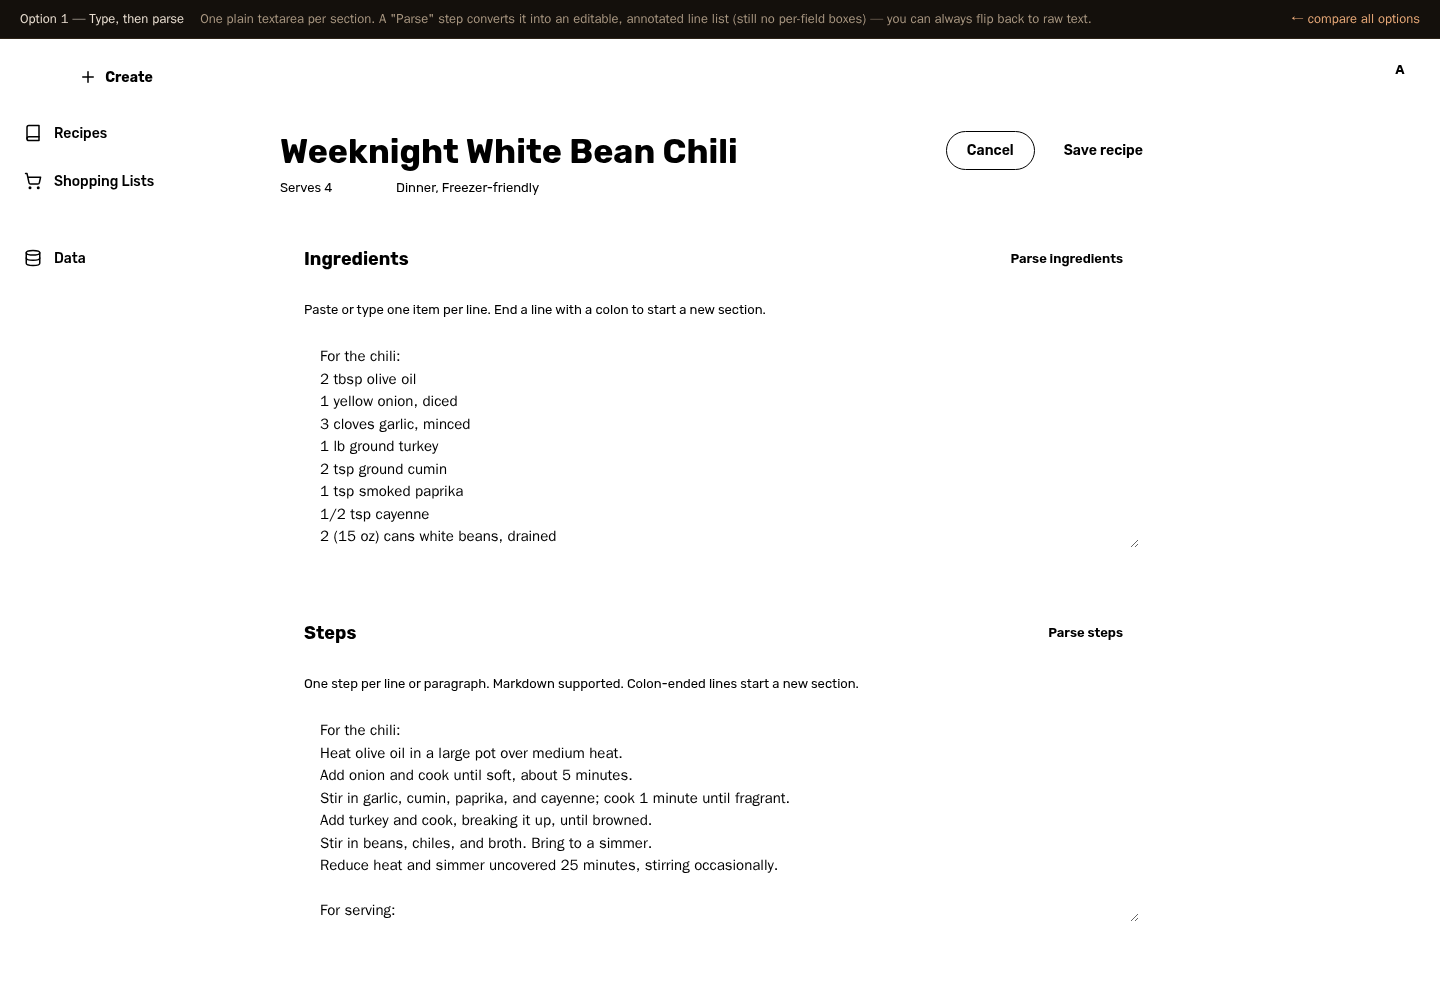
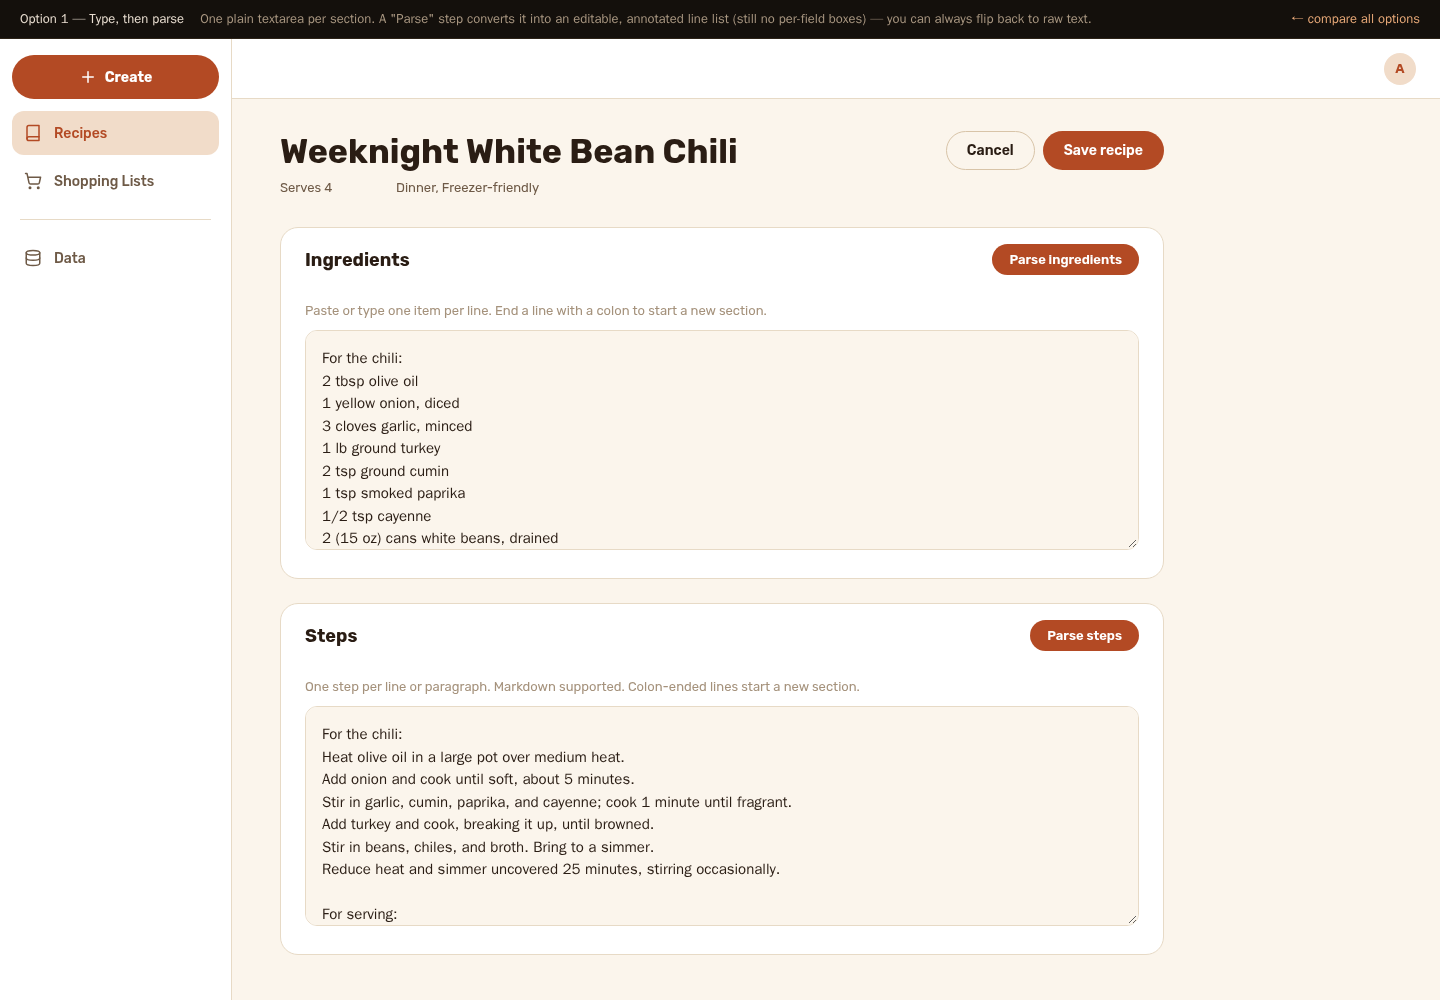
DAMN-2 mockups: fix missing data-palette — colors never actually applied
Root cause of the reported invisible-caret bug in the live-inline entry
option, and it turned out to be bigger than the caret: none of the four
mockup HTML files set data-palette on <html>. tokens.css scopes every
color token (not just accent) under :root[data-palette='terracotta'] —
only structural tokens (spacing/type/radius) live on bare :root. Every
--color-* variable was undefined the whole time; caret-color inherited
nothing and rendered fully transparent, and every "terracotta" element
in the earlier screenshots was actually just inherited black, close
enough to the real dark-brown text to pass a visual glance.

Added data-palette="terracotta" to all four files, re-verified caret
visibility and token resolution via computed-style checks (not just a
screenshot), and re-captured every screenshot. The interaction fix from
the previous commit (native textarea + non-interactive highlight layer)
was already structurally correct — this was purely a missing attribute
that made every color token resolve to nothing.

diff --git a/docs/features/DAMN-2-recipe-entry-and-versioning/mockups/entry-option-2-live-inline.html b/docs/features/DAMN-2-recipe-entry-and-versioning/mockups/entry-option-2-live-inline.html
@@ -1,5 +1,5 @@
 <!doctype html>
-<html lang="en">
+<html lang="en" data-palette="terracotta">
 <head>
 <meta charset="utf-8">
 <meta name="viewport" content="width=device-width, initial-scale=1">
@@ -63,7 +63,14 @@
   }
   .token-field .overlay { color: var(--color-text-primary); pointer-events: none; }
   .token-field textarea.input-layer {
-    resize: none; background: transparent; color: transparent; caret-color: var(--color-text-primary);
+    resize: none; background: transparent;
+    /* Both are needed: WebKit (Safari) can otherwise let -webkit-text-fill-color's
+       UA default win over `color`, which also swallows the caret — not just the
+       text — since WebKit ties caret rendering to the fill color, not `color`
+       alone. Setting both explicitly is the standard fix for this exact
+       transparent-text-visible-caret technique. */
+    color: transparent; -webkit-text-fill-color: transparent;
+    caret-color: var(--color-text-primary);
   }
   .token-field textarea.input-layer:focus { outline: none; }
   .eline { min-height: 1.8em; }

diff --git a/docs/features/DAMN-2-recipe-entry-and-versioning/mockups/entry-option-1-two-phase.html b/docs/features/DAMN-2-recipe-entry-and-versioning/mockups/entry-option-1-two-phase.html
@@ -1,5 +1,5 @@
 <!doctype html>
-<html lang="en">
+<html lang="en" data-palette="terracotta">
 <head>
 <meta charset="utf-8">
 <meta name="viewport" content="width=device-width, initial-scale=1">

diff --git a/docs/features/DAMN-2-recipe-entry-and-versioning/mockups/entry-option-3-mirror-pane.html b/docs/features/DAMN-2-recipe-entry-and-versioning/mockups/entry-option-3-mirror-pane.html
@@ -1,5 +1,5 @@
 <!doctype html>
-<html lang="en">
+<html lang="en" data-palette="terracotta">
 <head>
 <meta charset="utf-8">
 <meta name="viewport" content="width=device-width, initial-scale=1">

diff --git a/docs/features/DAMN-2-recipe-entry-and-versioning/mockups/recipe-flow.html b/docs/features/DAMN-2-recipe-entry-and-versioning/mockups/recipe-flow.html
@@ -1,5 +1,5 @@
 <!doctype html>
-<html lang="en">
+<html lang="en" data-palette="terracotta">
 <head>
 <meta charset="utf-8">
 <meta name="viewport" content="width=device-width, initial-scale=1">
